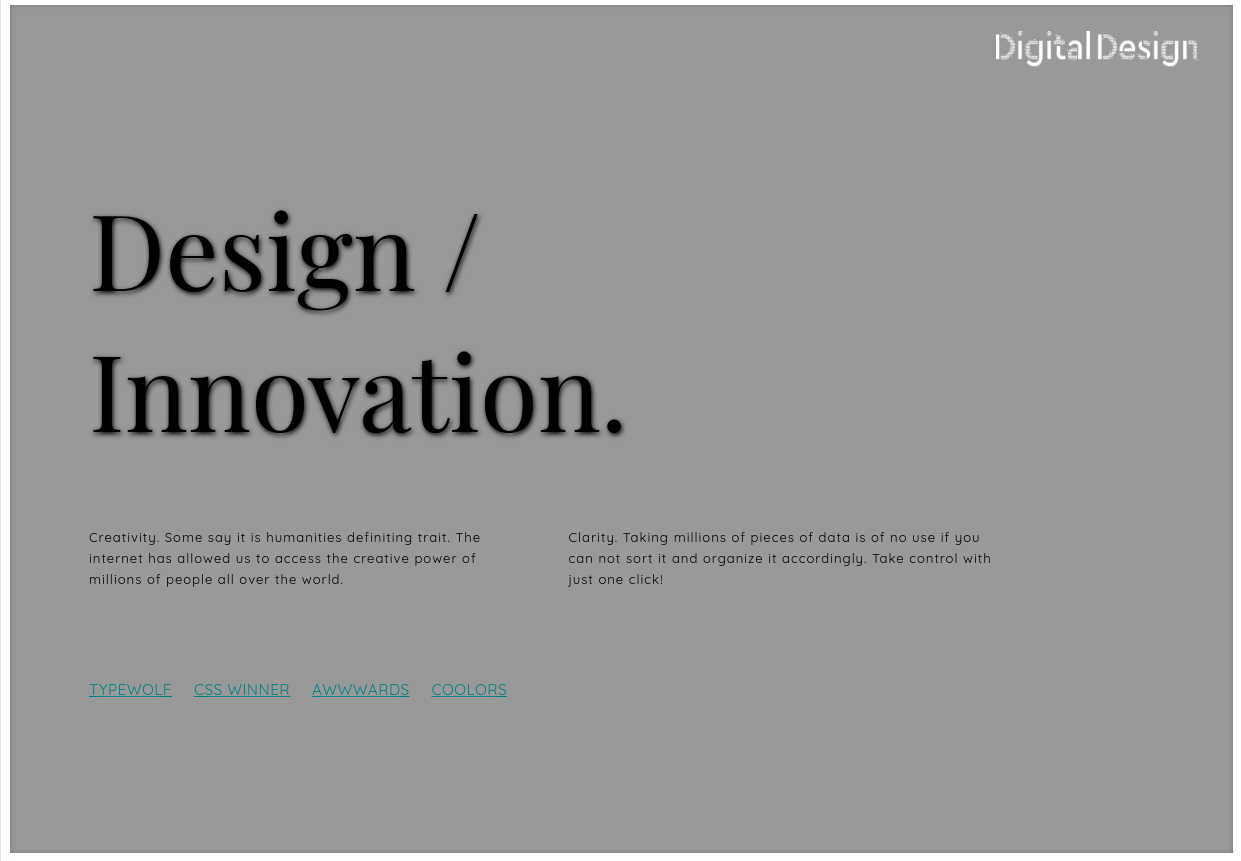
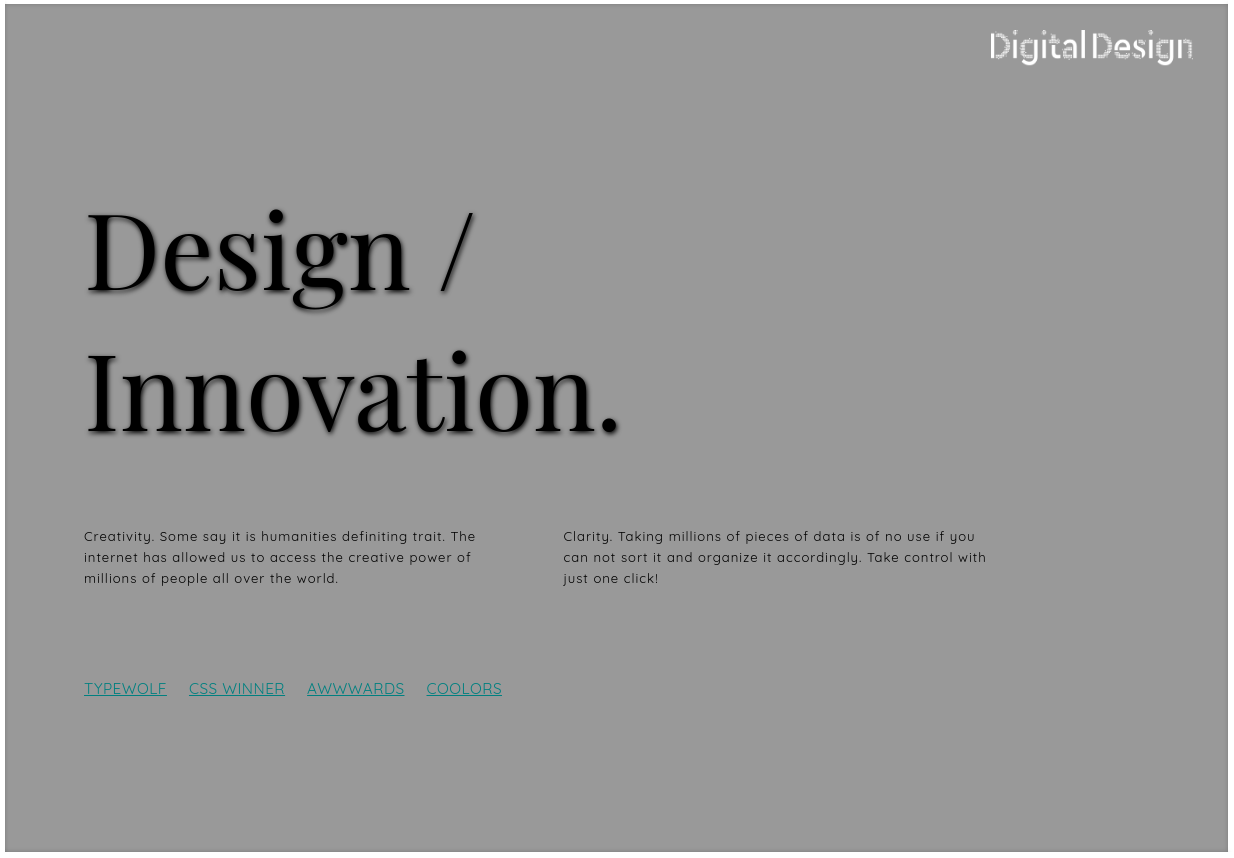
add hover and transition effects to projects section

diff --git a/index.html b/index.html
@@ -57,28 +57,30 @@
 
     <section class="whowhatwhy">
         <div class="background">
-            <div class="cover-image">
-                <div class="container container-2">
+            <div class="cover-image top">
+                <div class="container container-2 top">
                     <!-- <div class="background background-2"></div> -->
                     <h1>Front-end</h1>
                     <p>
                         JavaScript is the da Vinci of computer languages. What was once simply a web coding language has now opened the doors into desktop and mobile application design. Using the latest frameworks like Ionic, a JavaScript engineer can now create applications for the desktop. With React Native, mobile apps for Apple or Android!
                     </p>
                 </div>
-                <div class="container container-4">
+                <div class="container container-4 top">
+                    <h1>Mobile app Image</h1>
                     <!-- <div class="background background-4"></div> -->
 
                 </div>
-                <div class="container container-6">
+                <div class="container container-6 top">
+                    <h1>Security & Scalability Top</h1>
                     <!-- <div class="background background-6"></div> -->
 
                 </div>
             </div>
 
-            <div class="cover-image">
-                <div class="container container-1">
+            <div class="cover-image left">
+                <div class="container container-1 left">
                     <div class="background background-1"></div>
-                    <h2><u>Full-Stack Developer</u></h2>
+                    <!-- <h2><u>Full-Stack Developer</u></h2> -->
                     <div class="mini-nav">
                         <ul>
                             <li>
@@ -88,15 +90,15 @@
                     </div>
                 </div>
 
-                <div class="container container-3">
+                <div class="container container-3 left">
                     <div class="background background-3"></div>
-                    <h2><u>Mobile App Developer</u></h2>
+                    <!-- <h2><u>Mobile App Developer</u></h2> -->
 
                 </div>
 
-                <div class="container container-5">
+                <div class="container container-5 left">
                     <div class="background background-5"></div>
-                    <h2><u>Scalability & Security</u></h2>
+                    <!-- <h2><u>Scalability & Security</u></h2> -->
 
                 </div>
             </div>
@@ -112,9 +114,21 @@
                 </div>
 
                 <div class="container cont2">
+                    <h1>Mobile Applications</h1>
+                    <p>
+                        No more settling for "mobile web apps", "HTML5 apps", or a "hybrid app".
+                        React Native lets us build mobile apps indistinguishable from an app built using Objective-C/Swift (for Apple) or Java (for Android). It uses the same design as React, which allows for code to be moved from web to mobile efficiently while retaining the same rich user interface.
+                    </p>
                 </div>
 
                 <div class="container cont3">
+                    <h1>Security & Scalability</h1>
+                    <p>
+                        Responsive design has you covered whether you plan to build for desktop, laptop, tablet, or any other device. Scalible design patterns ensure that each user gets an enriched experience, regardless of the device they are using.
+
+                        Security is largely overlooked by most companies because it rarely affects the user experience...until it does. Having seen how much money security breaches can cost, I understood it was an important but largely neglected issue in development.
+                        Starting a project with these two aspects in mind allows for optimal coding and lots of time saved down the line.
+                    </p>
                 </div>
             
             </div>
@@ -362,11 +376,11 @@
 
         <div class="display-row start">
 
-            <div class="display-box display-one">
+            <div class="display-box display-one maximize">
                 <div class="shadow shadow-right">
                 </div>
+                <div class="backdrop_one"></div>
             </div>
-            <div class="backdrop_one"></div>
             <div class="display-text text_three">
                 <h2 class="header_two">24 Hour Health</h2>
                 <p>
@@ -377,11 +391,11 @@
         </div>
 
         <div class="display-row">
-            <div class="display-box display_two">
+            <div class="display-box display_two maximize">
                 <div class="shadow shadow-right">
                 </div>
+                <div class="backdrop_two"></div>
             </div>
-            <div class="backdrop_two"></div>
             <div class="display-text text_three">
                 <h2 class="header_three">SocialSync</h2>
                 <p>
@@ -394,11 +408,11 @@
         </div>
 
         <div class="display-row finish">
-            <div class="display-box display_three">
+            <div class="display-box display_three maximize">
                 <div class="shadow shadow-right">
                 </div>
+                <div class="backdrop_one"></div>
             </div>
-            <div class="backdrop_one"></div>
             <!-- <div class="backdrop_three"></div> -->
             <div class="display-text text_three">
                 <h2 class="header_three">FireWater</h2>

diff --git a/styles.css b/styles.css
@@ -137,10 +137,23 @@ section {
 }
 
 .whowhatwhy p {
-    padding: 60px;
-    font-size: 16px;
-    letter-spacing: 1px;
-    font-weight: lighter;
+    color: bisque;
+    padding: 5rem 3rem;
+    font-size: 12px;
+    letter-spacing: 1.3px;
+    line-height: 1.5rem;
+    font-weight: 300;
+}
+
+.whowhatwhy h1 {
+    position: absolute;
+    color: antiquewhite !important;
+    font-size: 74px;
+    padding-left: 0.8rem;
+    letter-spacing: 0.1rem;
+    text-shadow: 2px 2px 5px black;
+    /* font-family: monospace; */
+    font-family: ceraRegular;
 }
 
 .whowhatwhy h2 {
@@ -307,6 +320,7 @@ section.whowhatwhy .background .cover-text .container .title {
     background: #0d0d0d;
     opacity: 0;
     z-index: 1;
+    overflow: visible;
 }
 
 .typed_container {
@@ -340,11 +354,11 @@ section.mywork .display-box {
     position: relative;
     width: 27em;
     height: 17em;
-    overflow: hidden;
+    transition: all .5s;
+    cursor: pointer;
 }
 
 section.mywork .display-text {   
-    background-color: white;
     position: absolute;
     top: 6em;
     left: 25em;
@@ -356,9 +370,9 @@ section.mywork .display-text {
 .display-text p {
     color: bisque;
     padding: 5rem 3rem;
-    font-size: 12px;
+    font-size: 0.5rem;
     letter-spacing: 1.3px;
-    line-height: 1.5;
+    line-height: 1.3rem;
     font-weight: 300;
 }
 
@@ -372,13 +386,30 @@ section.mywork .display-text {
 .backdrop_one {
     background-color: transparent;
     position: absolute;
-    width: 26.7rem;
-    height: 16.7rem;
-    margin: -18.1em 1.9em;
-    border: 5px solid goldenrod;
+    width: 27rem;
+    height: 17rem;
+    margin: -1.7rem 1.5rem;
+    border: 2px solid goldenrod;
     opacity: 0.9;
     z-index: -1;
+    transition: all .5s;
 }
+
+
+
+
+.display-box:hover .shadow {
+    opacity: 0.3;
+}
+.display-box:hover.maximize {
+    z-index: 5;
+    box-shadow: 1px 1px 20px black;
+} 
+.display-box:hover .backdrop_one, .display-box:hover .backdrop_two {
+    margin: -0.1rem -0.1rem;
+}
+
+
 
 
 
@@ -390,12 +421,13 @@ section.mywork .display-text {
 .backdrop_two {
     background-color: transparent;
     position: absolute;
-    width: 26.7rem;
-    height: 16.7rem;
-    margin: -18.1em -1.9em;
-    border: 5px solid goldenrod;
+    width: 27rem;
+    height: 17rem;
+    margin: -1.7rem -1.5rem;
+    border: 2px solid goldenrod;
     opacity: 0.9;
     z-index: -1;
+    transition: all .5s;
 }
 .text_two {
     background-color: floralwhite !important;
@@ -404,10 +436,10 @@ section.mywork .display-text {
     position: absolute;
     color: antiquewhite !important;
     font-size: 67px;
-    padding-left: 0.8rem;
+    padding: 0.5rem 1.5rem;
     letter-spacing: -0.5rem;
-    /* text-shadow: 4px 4px 3px black; */
-    text-shadow: 2px 2px 5px goldenrod;
+    text-shadow: 4px 4px 3px black;
+    /* text-shadow: 2px 2px 5px goldenrod; */
 }
 
 
@@ -417,7 +449,6 @@ section.mywork .display-text {
     background-repeat: no-repeat;
     background-size: 100% 100%;
     box-shadow: 1px 1px 15px black;
-    border: 1px solid white;
 }
 .backdrop_three {
     background-color: goldenrod;
@@ -437,8 +468,10 @@ section.mywork .display-text {
     color: antiquewhite !important;
     font-size: 64px;
     height: 20%;
-    padding-left: 0.8rem;
-    text-shadow: 2px 2px 5px goldenrod;
+    padding: 0.5rem 1.5rem;
+    letter-spacing: -0.3rem;
+    text-shadow: 4px 4px 3px black;
+    /* text-shadow: 2px 2px 5px goldenrod; */
 }
 
 
@@ -449,6 +482,7 @@ section.mywork .display-text {
     position: absolute;
     left: 0;
     top: 0;
+    opacity: 1;
 
     -webkit-transition: all 650ms cubic-bezier(0.165, 0.840, 0.440, 1.000);
     -moz-transition: all 650ms cubic-bezier(0.165, 0.840, 0.440, 1.000);
@@ -487,6 +521,7 @@ section.mywork .display-text {
     color: darkgrey;
     font-family: 'ceraLight', sans-serif;
     opacity: 0;
+    z-index: 1;
 }
 
 .contact_container {
@@ -646,10 +681,7 @@ input[type=submit]:hover {
 
 .source-viewer {
     position: absolute;
-    top: -5em;
-    left: -8em;
     width: 100%;
-    font-family: Futura-pt,Arial;
     z-index: -1;
 }
 
@@ -659,7 +691,6 @@ input[type=submit]:hover {
     opacity: .35;
     padding: 20px;
     font-size: .8rem;
-    width: 100%;
     left: 0;
     top: 0;
     box-sizing: border-box
